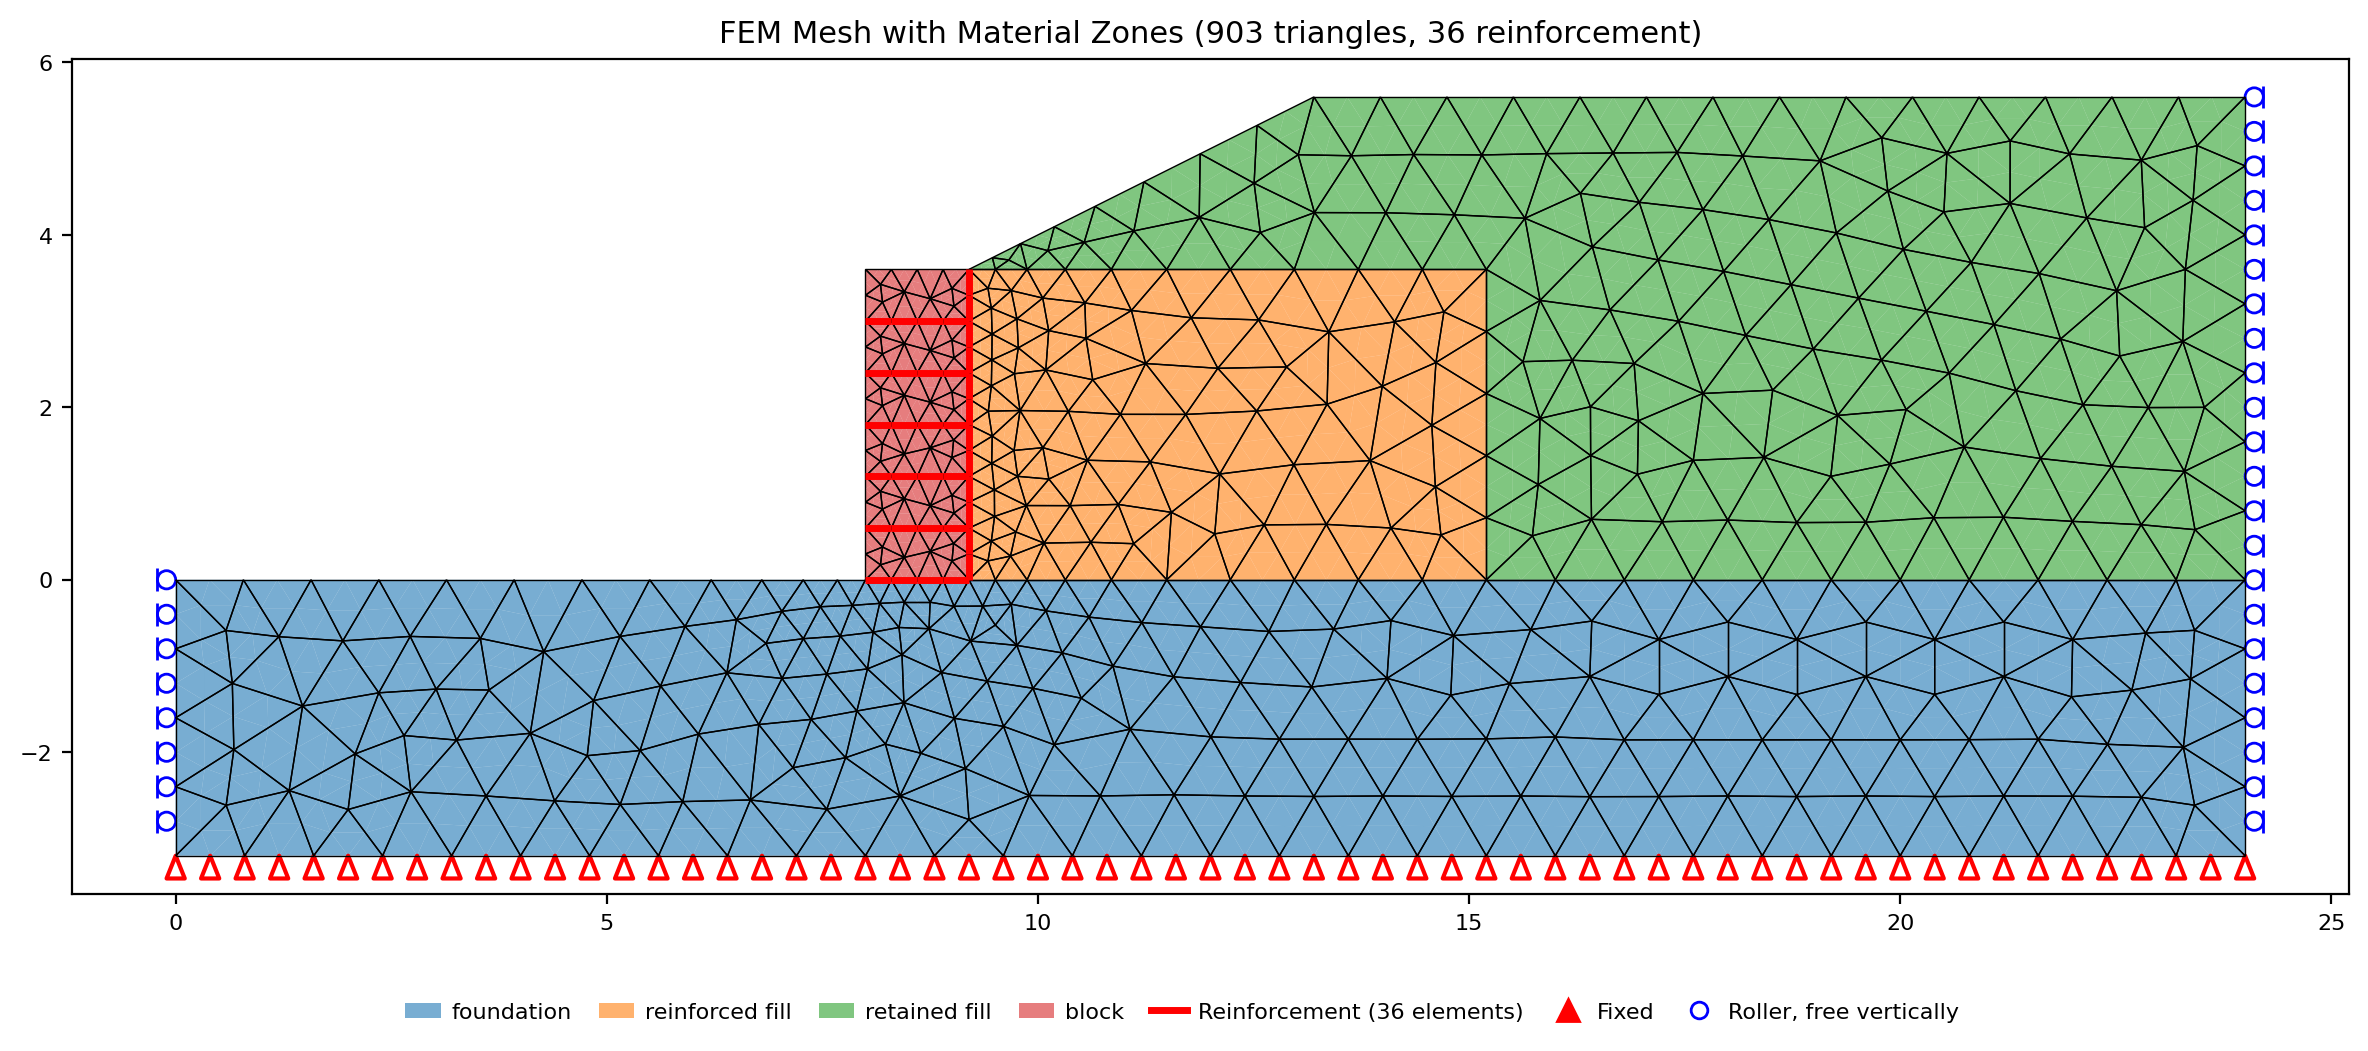
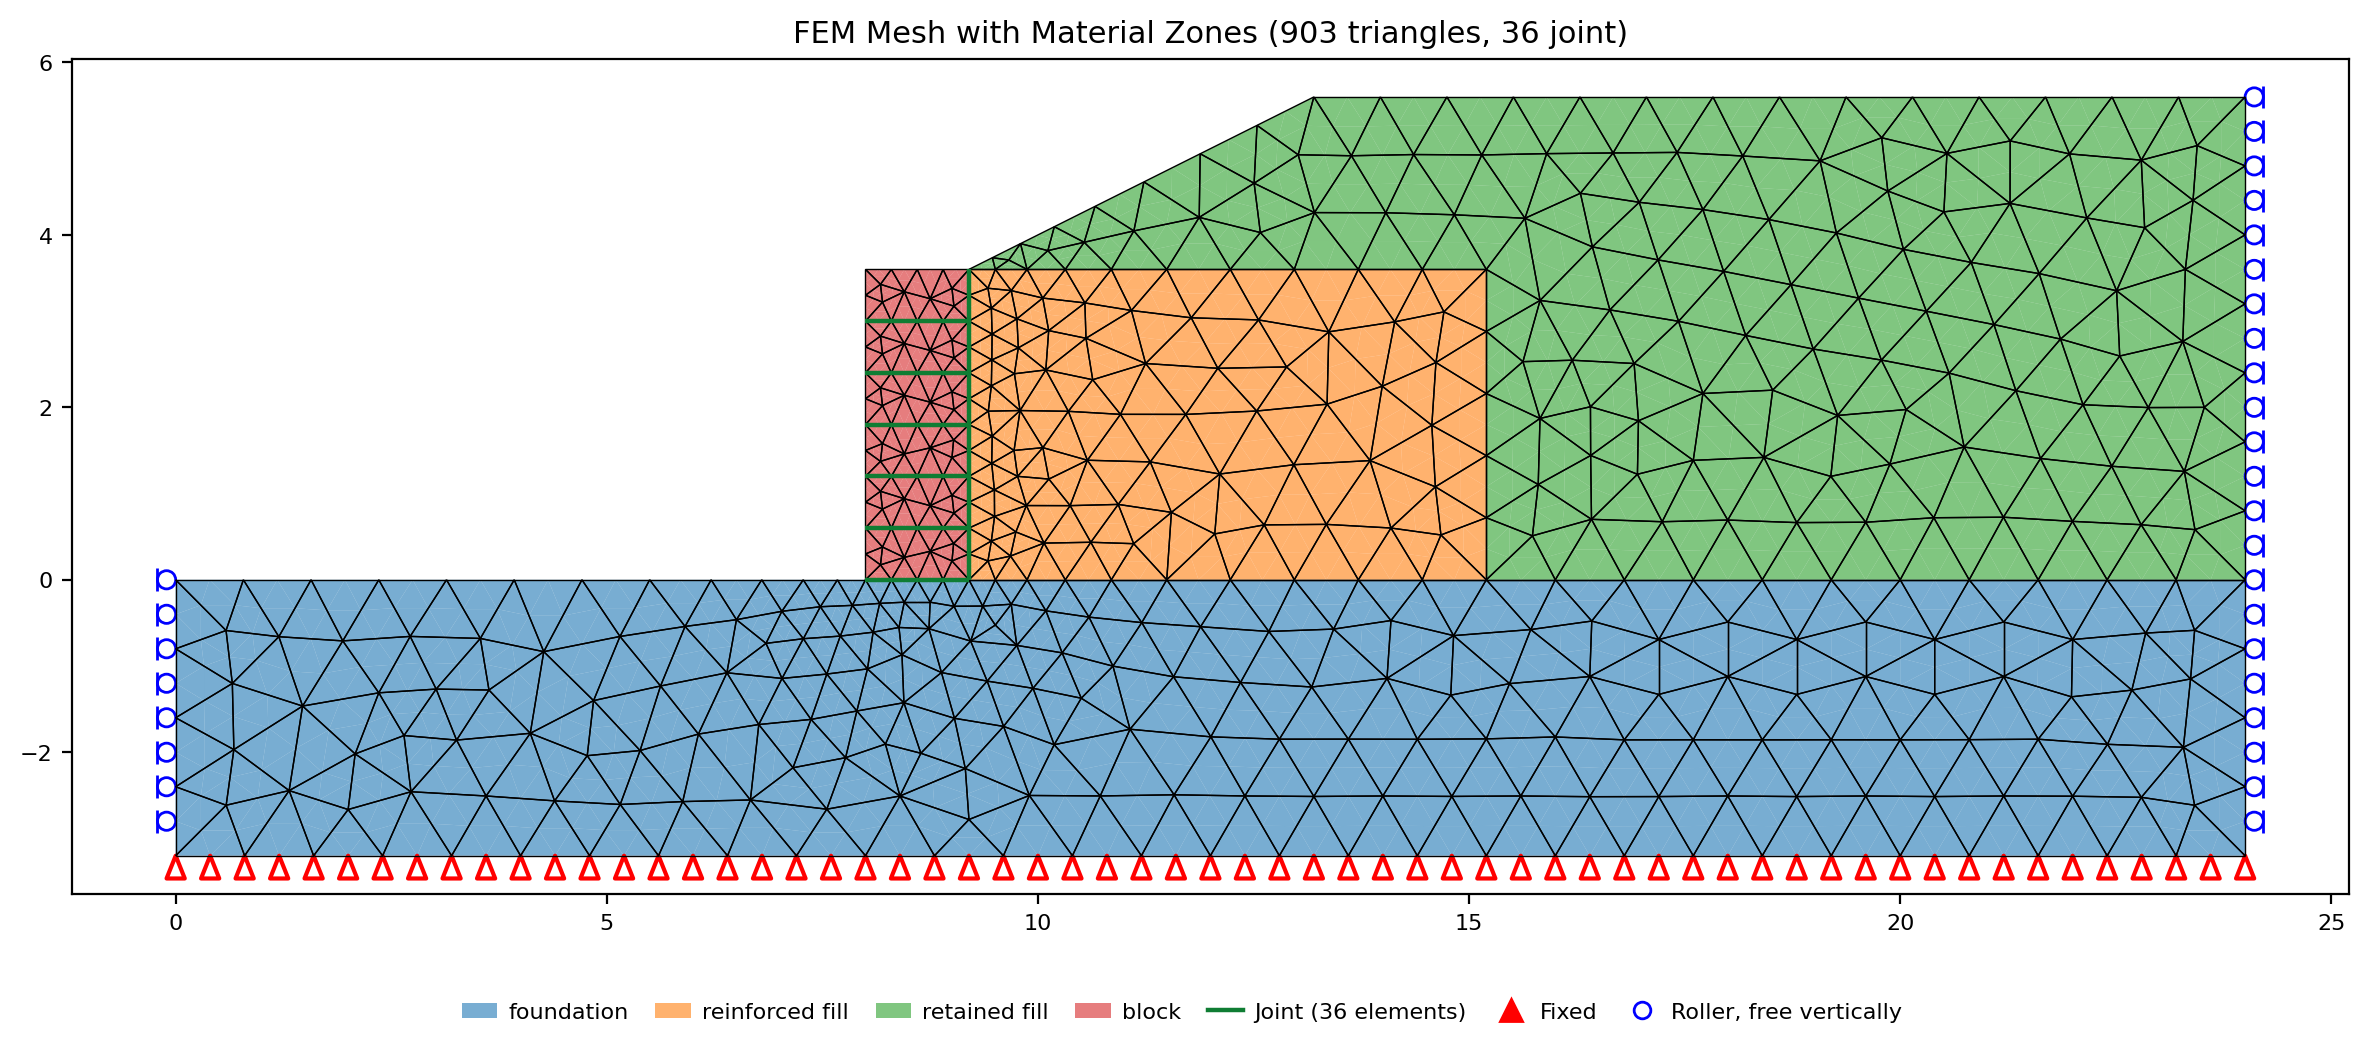
plot: a joint line is a solid trace with short, thin ticks on both sides
The ticks on a 1.2 m course joint of a block wall were as long as the block was high and the wall read as a cross-hatched smudge. A tick is now a third of its former length, thinner, between three and eight per line and never longer than an eighth of the line it marks; the trace under the ticks is solid. The FEM-3 inputs and mesh figures are redrawn with the symbol.

Claude-Session: https://claude.ai/code/session_01XjjT2aBxw8gY7EFdpoUcpj

diff --git a/xslope/plot.py b/xslope/plot.py
@@ -2780,9 +2780,13 @@ def _model_span(slope_data):
     return 100.0
 
 
-#: A joint tick's half-length, as a fraction of the width of the section. Short
+#: A joint tick's half-length, as a fraction of the width of the section. Short:
+#: the ticks on a 1.2 m course joint of a block wall were as long as the block
+#: was high and the wall read as a cross-hatched smudge; a third of that length
+#: still says "two faces that can move on each other" and stays clear of the
+#: neighbouring joints.
 #: enough to read as a hatch on the line rather than as geometry of its own.
-JOINT_TICK_FRACTION = 0.009
+JOINT_TICK_FRACTION = 0.003
 
 #: A bar-less joint line's color: a saturated green, the dark end of the hue the
 #: results overlay ramps a joint's slip along, so a joint is one recognizable
@@ -2821,8 +2825,10 @@ def joint_halo_effects(linewidth=JOINT_LINEWIDTH):
 #: continuous traces you can follow, and the legend carries the count.
 JOINT_TICK_MAX_LINES = 8
 
-#: The dash pattern of a joint line drawn as a fault symbol.
-JOINT_DASHES = (0, (6, 3))
+#: A joint line's trace is solid whether or not it carries ticks: the ticks are
+#: the symbol, and a dashed trace under them added nothing but noise on a
+#: short joint.
+JOINT_DASHES = '-'
 
 
 def joint_ticks_wanted(n_lines):
@@ -2869,14 +2875,15 @@ def draw_joint_ticks(ax, xs, ys, span, color, alpha=0.8, zorder=None,
     total = float(s[-1])
     if total <= 0:
         return
-    # A tick is a mark ON the line, so it is never longer than a quarter of the
-    # line it marks. Without that bound a short joint — a course across a 0.3 m
-    # facing column — carries ticks longer than itself and reads as a smudge.
-    half = min(JOINT_TICK_FRACTION * span, 0.25 * total)
-    # One tick every four half-lengths, between four and sixteen of them, so a
-    # short sheet and a long one both read as hatched rather than as a comb or
+    # A tick is a mark ON the line, so it is never longer than an eighth of the
+    # line it marks (a quarter across, both sides together). Without that bound
+    # a short joint — a course across a 0.3 m facing column — carries ticks
+    # longer than itself and reads as a smudge.
+    half = min(JOINT_TICK_FRACTION * span, 0.12 * total)
+    # One tick every five half-lengths, between three and eight of them, so a
+    # short sheet and a long one both read as marked rather than as a comb or
     # as two lonely marks.
-    n = int(min(16, max(4, round(total / (4.0 * half)))))
+    n = int(min(8, max(3, round(total / (5.0 * half)))))
     at = np.linspace(0.0, total, n + 2)[1:-1]
     xi = np.interp(at, s, pts[:, 0])
     yi = np.interp(at, s, pts[:, 1])
@@ -2888,7 +2895,7 @@ def draw_joint_ticks(ax, xs, ys, span, color, alpha=0.8, zorder=None,
     for k in range(n):
         ax.plot([xi[k] - half * nx[k], xi[k] + half * nx[k]],
                 [yi[k] - half * ny[k], yi[k] + half * ny[k]],
-                color=color, linewidth=1.5, alpha=alpha, solid_capstyle='butt',
+                color=color, linewidth=1.0, alpha=alpha, solid_capstyle='butt',
                 zorder=zorder, label=(label if k == 0 else None))
 
 
@@ -2963,7 +2970,7 @@ def plot_reinforcement_lines(ax, slope_data, style=None, solution=False):
 
 
 def plot_joint_lines(ax, slope_data, style=None):
-    """Draw the ``joints`` sheet's lines: a thin dark dashed line, ticked on both
+    """Draw the ``joints`` sheet's lines: a thin dark solid line, ticked on both
     sides where there are few enough of them to read, and one legend entry
     naming the count.
 
@@ -3000,8 +3007,8 @@ def plot_joint_lines(ax, slope_data, style=None):
             # ticked drawing gets a ticked swatch and a plain one does not.
             ax.plot([], [], color=JOINT_COLOR, linewidth=JOINT_LINEWIDTH,
                     linestyle=dash, alpha=0.9,
-                    marker='|' if ticks else 'None', markersize=11,
-                    markeredgewidth=1.5, label=joint_legend_label(len(lines)))
+                    marker='|' if ticks else 'None', markersize=7,
+                    markeredgewidth=1.0, label=joint_legend_label(len(lines)))
             labeled = True
 
 
